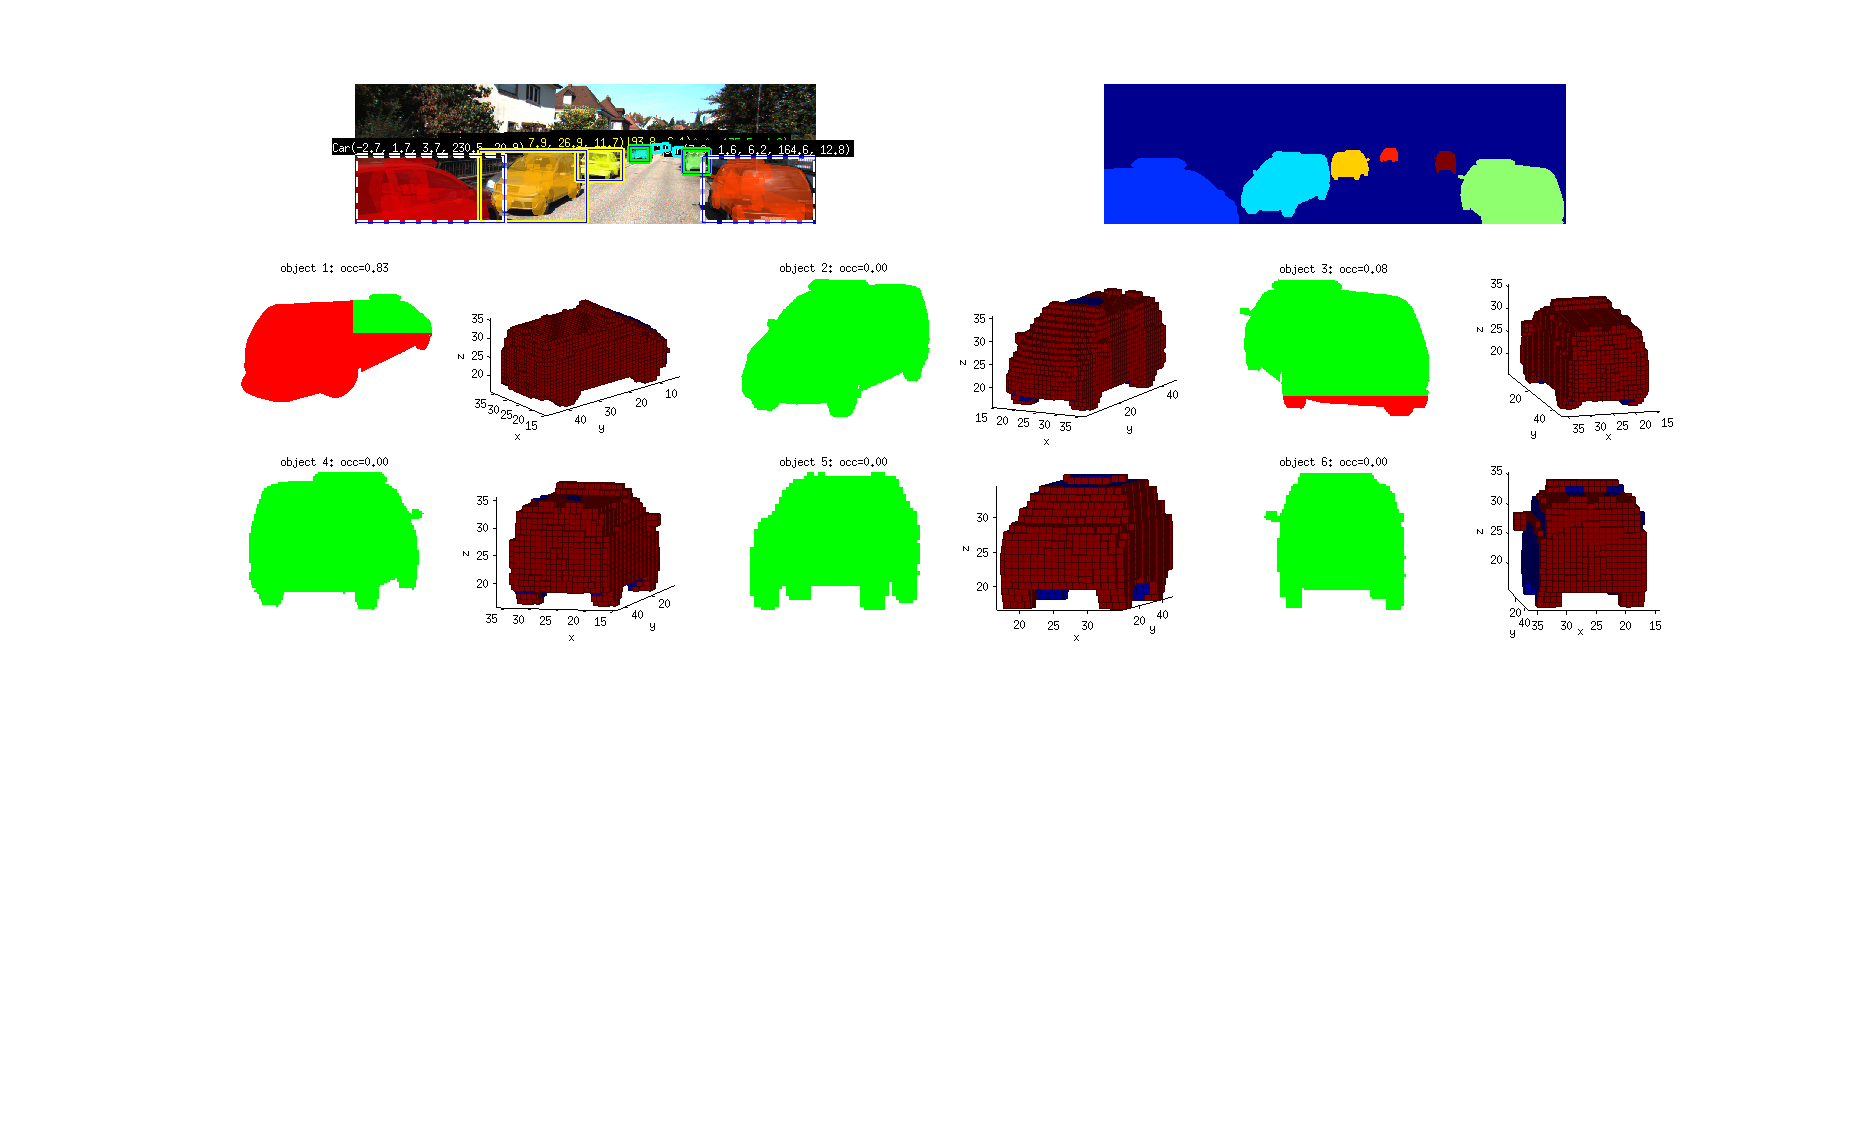
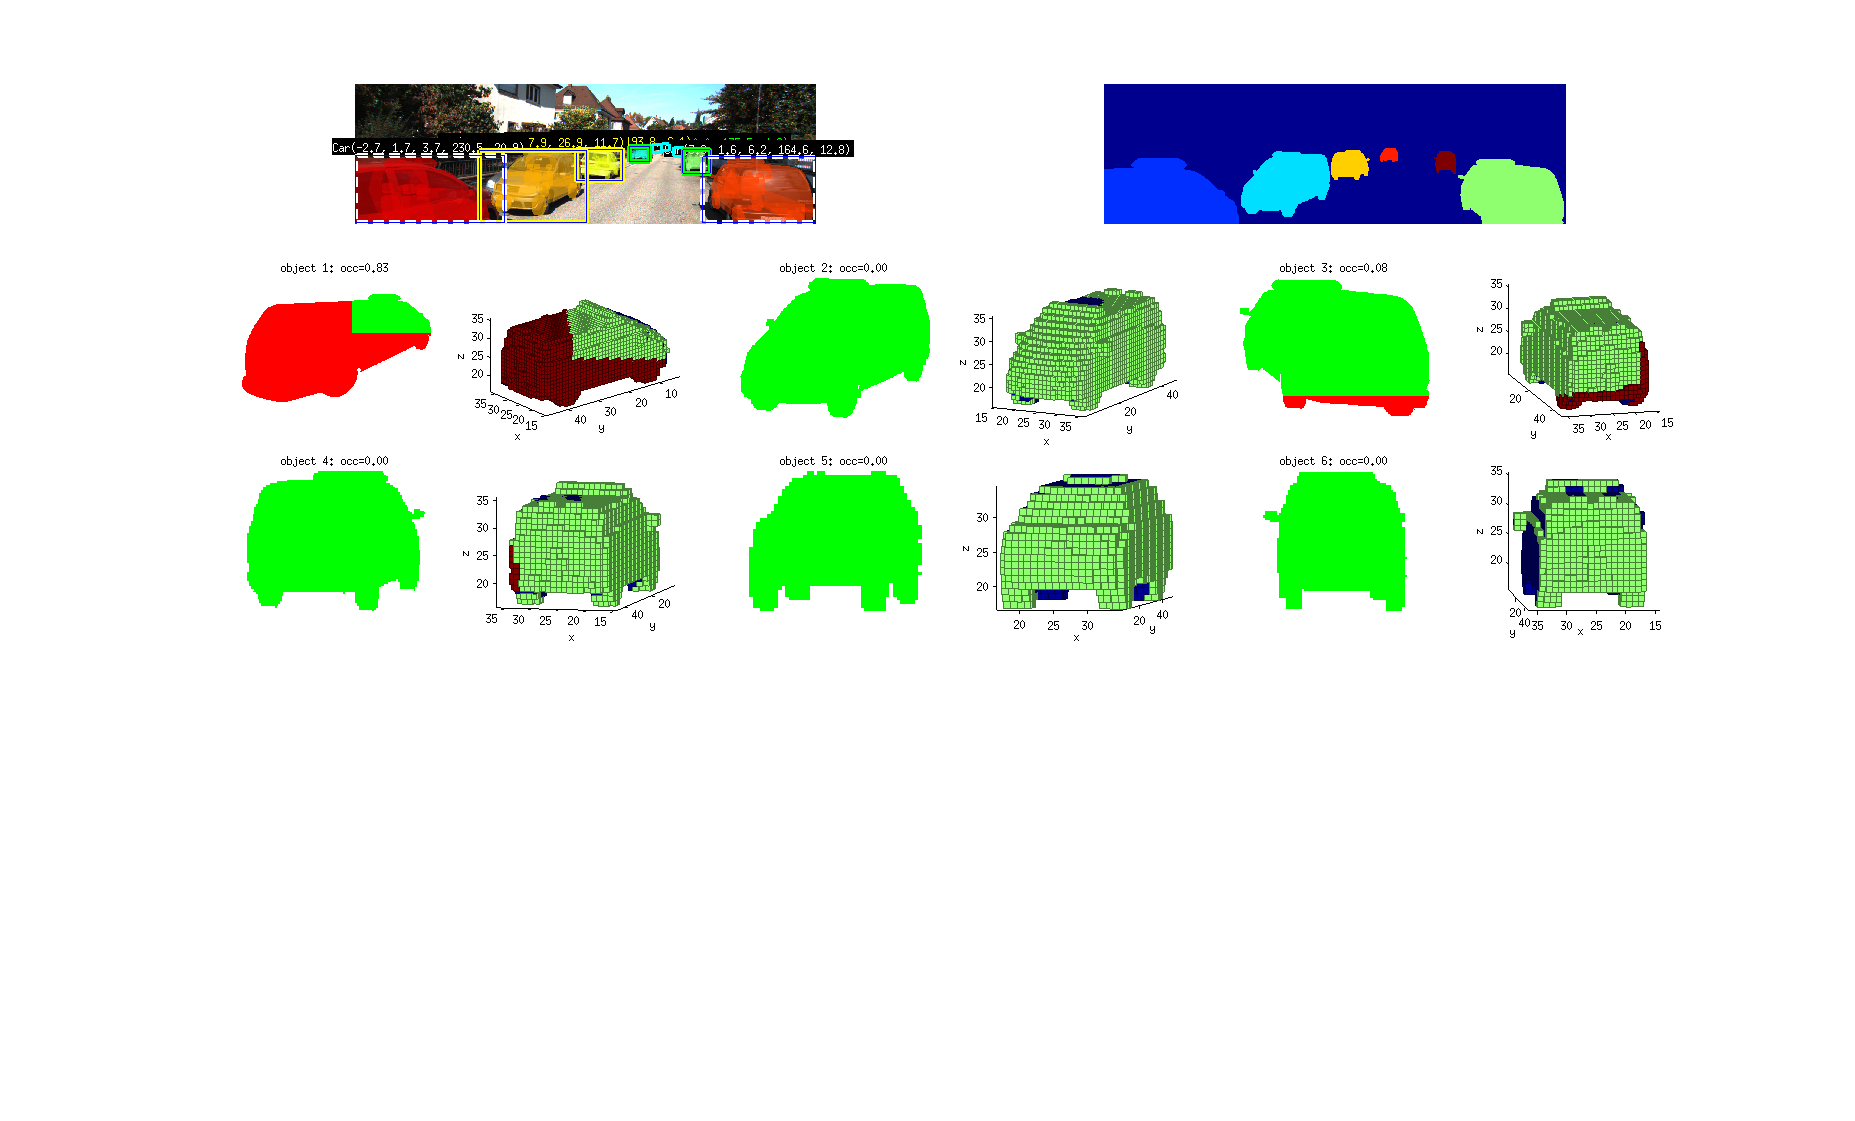
3D occlusion pattern

diff --git a/KITTI/create_occlusion_masks.m b/KITTI/create_occlusion_masks.m
@@ -110,6 +110,7 @@ for img_idx = 0:nimages-1
   if issave == 0
     index_plot = mplot + 1;
   end
+  index_object = index;
   for i = 1:num
       if isempty(BWs{i}) == 1
           continue;
@@ -152,7 +153,29 @@ for img_idx = 0:nimages-1
       distance = norm(objects(i).t);
       elevation = asind(objects(i).t(2)/distance);
       cad_index = find_closest_cad(cads, objects(i));
-      visibility = check_visibility(cads(cad_index), azimuth, elevation);
+      [visibility_grid, visibility_ind] = check_visibility(cads(cad_index), azimuth, elevation);
+      
+      % check the occlusion status of visible voxels
+      index = find(visibility_ind == 1);
+      x3d = compute_3d_points(cads(cad_index).x3d(index,:), objects(i));
+      x2d = projectToImage(x3d, P);
+      x2d = x2d' + pad_size;
+      occludee = find(index_object == i);
+      for j = 1:numel(index)
+          x = round(x2d(j,1));
+          y = round(x2d(j,2));
+          ind = cads(cad_index).ind(index(j),:);
+          if x > pad_size && x <= size(mask,2)-pad_size && y > pad_size && y <= size(mask,1)-pad_size
+              if mask(y,x) > 0 && mask(y,x) ~= i % occluded by other objects
+                  occluder = find(index_object == mask(y,x));
+                  if occluder > occludee
+                    visibility_grid(ind(1), ind(2), ind(3)) = 2;
+                  end
+              end
+          else
+              visibility_grid(ind(1), ind(2), ind(3)) = 2;
+          end
+      end
       
       % save occlusion pattern images
       if issave == 1 && isempty(find(pattern == 2, 1)) == 0
@@ -178,7 +201,7 @@ for img_idx = 0:nimages-1
           subplot(nplot, mplot, index_plot);
           cla;
           index_plot = index_plot + 1;
-          draw_cad(cads(cad_index), visibility);
+          draw_cad(cads(cad_index), visibility_grid);
           view(azimuth, elevation);
           axis on;
       end

diff --git a/Geometry/check_visibility.m b/Geometry/check_visibility.m
@@ -1,5 +1,5 @@
 % check the visibility of voxels
-function visibility = check_visibility(cad, azimuth, elevation)
+function [visibility_grid, visibility_ind] = check_visibility(cad, azimuth, elevation)
 
 N = cad.grid_size;
 grid = cad.grid;
@@ -15,13 +15,15 @@ C(2) = -distance*cos(elevation)*cos(azimuth);
 C(3) = distance*sin(elevation);
 
 % visibility flag
-visibility = zeros(N, N, N);
+num = size(ind, 1);
+visibility_ind = zeros(num, 1);
+visibility_grid = zeros(N, N, N);
 step_size = 1/(10*N);
 corner = [0 0 0; 0 0 1; 0 1 0; 0 1 1; 1 0 0; 1 0 1; 1 1 0; 1 1 1];
 num_corner = size(corner, 1);
 
 % for each voxel
-for k = 1:size(ind,1)
+for k = 1:num
     x = ind(k,1);
     y = ind(k,2);
     z = ind(k,3);         
@@ -49,8 +51,10 @@ for k = 1:size(ind,1)
         end
     end
     if sum(is_occluded) == num_corner
-        visibility(x, y, z) = 0;
+        visibility_grid(x, y, z) = 0;
+        visibility_ind(k) = 0;
     else
-        visibility(x, y, z) = 1;
+        visibility_grid(x, y, z) = 1;
+        visibility_ind(k) = 1;
     end
 end

diff --git a/Geometry/draw_cad.m b/Geometry/draw_cad.m
@@ -6,13 +6,14 @@ end
 
 L3 = cad.grid;
 if isempty(visibility) == 0
-    L3(L3 == 1) = 2;
+    L3(L3 == 1) = 2;  % self-occluded
 else
     L3(L3 == 1) = 127;
 end
-L3(L3 == 0) = 1;
+L3(L3 == 0) = 1;  % empty voxel
 
 if isempty(visibility) == 0
-    L3(visibility == 1) = 127;
+    L3(visibility == 1) = 3;  % visiblie
+    L3(visibility == 2) = 4;  % occluded by other objects
 end
 drawLabeledVoxel(L3);

diff --git a/Geometry/PATCH_3Darray.m b/Geometry/PATCH_3Darray.m
@@ -157,7 +157,7 @@ end
 %Set defaults for colormap and colorbar options
 colYN = 0;
 cbar  = 0;
-clim = [2 14]; % Byung
+clim = [2 4]; % Byung
 alpha = 1;
 
 %Check for character inputs
